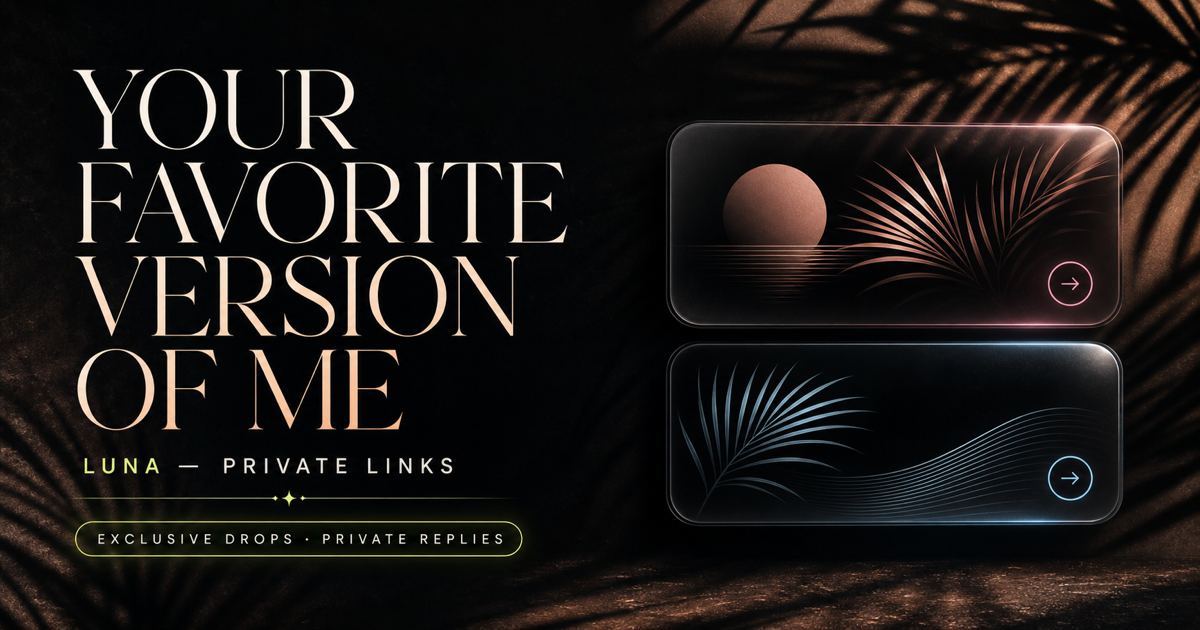
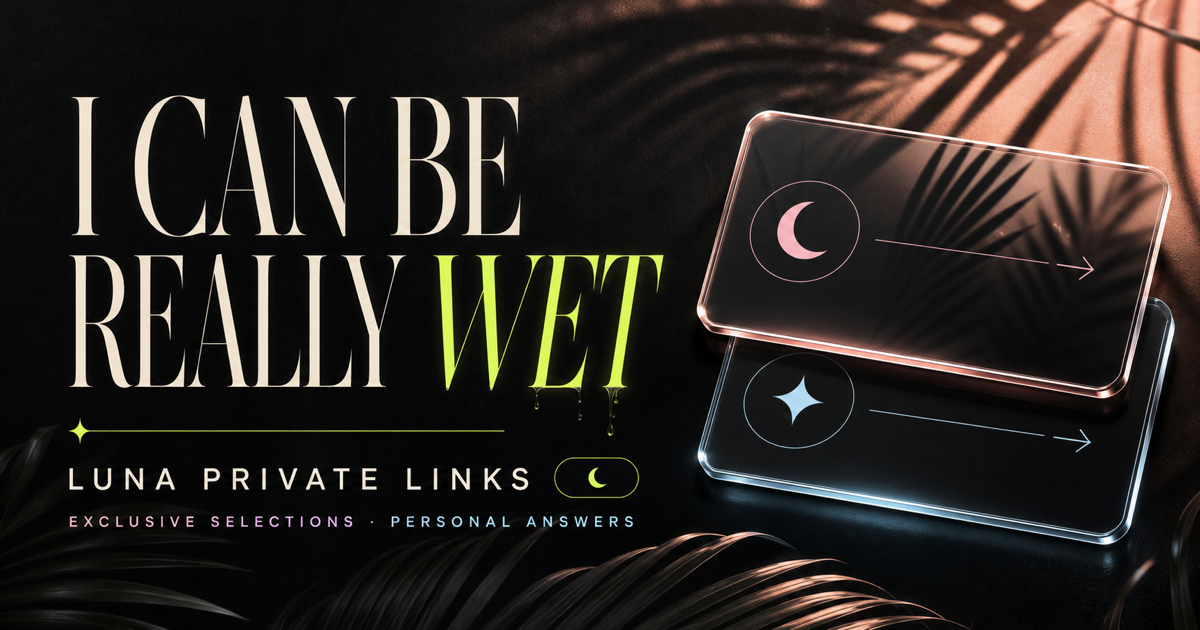
Publish Юля @user · Ютуб

diff --git a/25/index.html b/25/index.html
@@ -7,48 +7,202 @@
   <meta name="description" content="Exclusive selections, behind-the-scenes moments and personal answers — choose your favorite place.">
   <meta property="og:title" content="YULIA Private Links">
   <meta property="og:description" content="Exclusive selections, behind-the-scenes moments and personal answers — choose your favorite place.">
+  <meta property="og:type" content="website">
   <meta property="og:image" content="media/og.png">
+  <meta name="twitter:card" content="summary_large_image">
+  <meta name="twitter:title" content="YULIA Private Links">
+  <meta name="twitter:description" content="Exclusive selections, behind-the-scenes moments and personal answers — choose your favorite place.">
+  <meta name="twitter:image" content="media/og.png">
+  <meta name="theme-color" content="#11150f">
   <link rel="icon" href="media/favicon.jpg">
   <style>
-    :root{--display:"Bodoni 72","Iowan Old Style","Times New Roman",serif;--sans:Inter,ui-sans-serif,-apple-system,BlinkMacSystemFont,"Segoe UI",sans-serif}
-    *{box-sizing:border-box}html{min-width:320px;background:#080b12}body{min-width:320px;margin:0;background:#080b12;color:#fff;font-family:var(--sans);text-rendering:optimizeLegibility;-webkit-font-smoothing:antialiased}button{font:inherit}button,a{-webkit-tap-highlight-color:transparent}a{color:inherit;text-decoration:none}
-    .first-version-page{position:relative;min-height:100svh;padding:24px;display:grid;place-items:center;isolation:isolate;overflow:hidden;background:#080b12;color:#fff}
-    .first-version-media,.first-version-media>img,.first-version-media>video,.first-version-tint,.first-version-grain{position:fixed;inset:0}
-    .first-version-media{z-index:-2;overflow:hidden;background:#0a0c12}.first-version-media>img,.first-version-media>video{width:100%;height:100%;display:block;object-fit:cover;object-position:center 48%;transform:scale(1.02);animation:media-in 1.2s both cubic-bezier(.22,1,.36,1)}
-    .first-version-tint{background:radial-gradient(circle at 50% 38%,#2fb0ff21,transparent 36%),linear-gradient(180deg,#03060c75,#03050ad1)}
-    .first-version-grain{opacity:.12;background-image:repeating-radial-gradient(circle at 17% 29%,#ffffff4d 0 .45px,transparent .8px 3px),repeating-radial-gradient(circle at 78% 67%,#00000052 0 .5px,transparent .9px 4px);background-size:5px 5px,7px 7px;mix-blend-mode:soft-light;pointer-events:none}
-    .first-version-card{position:relative;width:min(448px,100%);padding:24px;border:1px solid #fff3;border-radius:30px;overflow:hidden;background:linear-gradient(145deg,#ffffff1f,transparent 30%),linear-gradient(180deg,#0a0e18b3,#080b1394);box-shadow:0 38px 100px #00000094,inset 0 1px #ffffff1a;backdrop-filter:blur(20px) saturate(125%);animation:card-in .85s .09s both cubic-bezier(.22,1,.36,1)}
-    .first-version-card:before{content:"";position:absolute;width:260px;height:260px;top:-180px;right:-140px;border-radius:50%;background:#1da1ff2e;filter:blur(20px);pointer-events:none}
-    .first-version-header{position:relative;display:flex;align-items:center;justify-content:space-between;gap:16px}.first-version-label{min-height:29px;padding:0 11px;border:1px solid #ffffff30;border-radius:999px;display:inline-flex;align-items:center;background:#ffffff0f;color:#ffffffad;font-size:8px;font-weight:800;letter-spacing:.17em;text-transform:uppercase}
-    .first-version-header button{min-height:32px;padding:0 8px 0 12px;border:1px solid #ffffff2e;border-radius:999px;display:inline-flex;align-items:center;gap:9px;background:#ffffff0f;color:#fff;cursor:pointer;font-size:8px;font-weight:900;letter-spacing:.15em;transition:.22s}.first-version-header button span{width:21px;height:21px;border-radius:50%;display:grid;place-items:center;background:#ffffff1f;font-size:11px}.first-version-header button:hover{border-color:#ffffff6b;background:#ffffff1f;transform:translateY(-2px)}
-    .first-version-identity{margin-top:35px;display:flex;align-items:center;gap:12px;color:#ffffff94;font-size:8px;font-weight:900;letter-spacing:.2em}.first-version-avatar{width:44px;height:44px;border:1px solid #ffffff40;border-radius:15px;display:grid;place-items:center;background:linear-gradient(145deg,#1da1ff52,#ffffff0f);color:#fff;font-family:var(--display);font-size:23px;font-style:italic;font-weight:400;letter-spacing:0}
-    h1{margin:24px 0 0;font-family:var(--display);font-size:clamp(42px,8vw,58px);font-style:italic;font-weight:400;line-height:.94;letter-spacing:-.045em}.first-version-description{max-width:355px;margin:14px 0 23px;color:#ffffffad;font-size:12px;line-height:1.55}
-    .first-version-primary-links{display:grid;gap:10px}.first-version-link{position:relative;min-height:86px;padding:13px;border:1px solid #ffffff29;border-radius:19px;display:grid;grid-template-columns:auto minmax(0,1fr) auto;align-items:center;gap:12px;overflow:hidden;opacity:0;animation:link-in .62s var(--link-delay) both cubic-bezier(.22,1,.36,1);transition:.25s}.first-version-link.primary{border-color:#6ecbff73;background:linear-gradient(135deg,#25b5ff,#0566f5);box-shadow:0 19px 45px #0b74ff59}.first-version-link.secondary{background:#ffffff13}.first-version-link:after{content:"";position:absolute;inset:0;background:linear-gradient(110deg,transparent 20%,#fff3 48%,transparent 70%);transform:translateX(-120%)}.first-version-link:hover{border-color:#ffffff80;transform:translateY(-4px) scale(1.006)}.first-version-link:hover:after{animation:sheen .75s ease}
-    .first-version-monogram{width:44px;height:44px;border:1px solid #fff3;border-radius:14px;display:grid;place-items:center;background:#ffffff24;box-shadow:inset 0 1px #ffffff2e;font-size:11px;font-weight:900}.first-version-link-copy{min-width:0;display:grid;gap:3px}.first-version-link-copy small{color:#ffffff9e;font-size:7px;font-weight:900;letter-spacing:.16em;text-transform:uppercase}.first-version-link-copy strong,.first-version-link-copy>span{overflow:hidden;text-overflow:ellipsis;white-space:nowrap}.first-version-link-copy strong{font-size:14px}.first-version-link-copy>span{color:#ffffffa1;font-size:9px}.first-version-arrow{width:29px;height:29px;border:1px solid #ffffff2e;border-radius:50%;display:grid;place-items:center;background:#ffffff1a;font-size:13px;transition:.22s}.first-version-link:hover .first-version-arrow{background:#fff;color:#07101d;transform:rotate(45deg)}
-    .first-version-divider{margin:21px 0 12px;display:flex;justify-content:space-between;gap:16px;color:#ffffff6b;font-size:7px;font-weight:900;letter-spacing:.19em}.first-version-socials{display:flex;justify-content:center;gap:10px;min-height:44px}.first-version-socials a{width:44px;height:44px;border:1px solid #ffffff2b;border-radius:50%;display:grid;place-items:center;background:#ffffff12;box-shadow:inset 0 1px #ffffff14;opacity:0;font-size:8px;font-weight:900;letter-spacing:-.03em;animation:social-in .52s var(--social-delay) both cubic-bezier(.22,1,.36,1);transition:.22s}.first-version-socials a:hover{border-color:#62cfff;background:#fff;color:#07101d;transform:translateY(-4px)}
-    .first-version-footer{margin-top:21px;padding-top:15px;border-top:1px solid #ffffff1a;display:flex;justify-content:space-between;gap:16px;color:#ffffff5c;font-size:7px;font-weight:900;letter-spacing:.17em}.first-version-header button:focus-visible,.first-version-link:focus-visible,.first-version-socials a:focus-visible{outline:2px solid #70d4ff;outline-offset:4px}
-    @keyframes card-in{from{opacity:0;transform:translateY(30px) scale(.975)}}@keyframes media-in{from{opacity:0;transform:scale(1.08)}}@keyframes link-in{from{opacity:0;transform:translateY(14px)}to{opacity:1;transform:translateY(0)}}@keyframes social-in{from{opacity:0;transform:translateY(10px) scale(.9)}to{opacity:1;transform:translateY(0) scale(1)}}@keyframes sheen{to{transform:translateX(120%)}}
-    @media(max-width:520px){.first-version-page{padding:12px;align-items:end}.first-version-card{width:100%;padding:18px;border-radius:25px}.first-version-identity{margin-top:26px}h1{margin-top:19px;font-size:43px}.first-version-description{margin-bottom:19px}.first-version-link{min-height:79px;padding:11px;border-radius:17px}.first-version-socials{gap:8px}.first-version-socials a{width:41px;height:41px}}
-    @media(max-height:720px) and (min-width:521px){.first-version-page{padding-block:12px}.first-version-card{padding:19px}.first-version-identity{margin-top:21px}h1{margin-top:17px;font-size:43px}.first-version-description{margin:11px 0 17px}.first-version-link{min-height:76px}.first-version-divider{margin-top:16px}.first-version-footer{margin-top:15px}}
-    @media(prefers-reduced-motion:reduce){*{animation-duration:.01ms!important;animation-iteration-count:1!important;transition-duration:.01ms!important}.first-version-media>video{display:none}}
+    :root{--ink:#f8f5ef;--muted:#f8f5efa8;--line:#ffffff24;--surface:#0b0c0bad;--blue:#6fd5ff;--pink:#ff8cc7;--lime:#d7ff75;--display:"Bodoni 72","Iowan Old Style","Times New Roman",serif;--sans:Inter,ui-sans-serif,-apple-system,BlinkMacSystemFont,"Segoe UI",sans-serif}
+    *{box-sizing:border-box}
+    html{min-width:320px;scroll-behavior:smooth;background:#11150f}
+    body{min-width:320px;margin:0;background:#11150f;color:var(--ink);font-family:var(--sans);text-rendering:optimizeLegibility;-webkit-font-smoothing:antialiased}
+    button,a{-webkit-tap-highlight-color:transparent}
+    button{font:inherit}
+    a{color:inherit;text-decoration:none}
+    ::selection{background:var(--lime);color:#11150f}
+    .link-hub{isolation:isolate;min-height:100svh;position:relative;overflow:hidden;background:#11150f}
+    .media-layer,.poster-layer,.background-media,.color-wash,.edge-shade,.noise{position:fixed;inset:0}
+    .media-layer{z-index:-2;overflow:hidden;background:#11150f}
+    .poster-layer{background:linear-gradient(#0b0f0a1f,#0b0f0a1f),url("media/poster.jpg") center 43%/cover no-repeat;transform:scale(1.02)}
+    .background-media{width:100%;height:100%;border:0;object-fit:cover;object-position:center 43%;opacity:0;transform:scale(1.018);transition:opacity 1.15s cubic-bezier(.4,0,.2,1)}
+    .background-media:nth-of-type(2){object-position:center 48%}
+    .background-media:nth-of-type(3){object-position:center 44%}
+    .background-media.is-active{opacity:1}
+    .color-wash{pointer-events:none;background:radial-gradient(circle at 14% 26%,#d7ff752e,transparent 31%),radial-gradient(circle at 80% 74%,#ff66ad29,transparent 34%),linear-gradient(102deg,#0709071a 0%,#0709076b 54%,#070907ad 100%);mix-blend-mode:screen}
+    .edge-shade{pointer-events:none;background:linear-gradient(#0405048c 0%,transparent 23% 68%,#040504cc 100%),linear-gradient(90deg,#04050499 0%,#04050414 46%,#04050475 100%)}
+    .noise{pointer-events:none;opacity:.12;background-image:repeating-radial-gradient(circle at 18% 27%,#ffffff3d 0 .45px,transparent .8px 3px),repeating-radial-gradient(circle at 72% 68%,#00000047 0 .55px,transparent .9px 4px);background-size:5px 5px,7px 7px;mix-blend-mode:soft-light}
+    .page-shell{width:min(100%,1480px);min-height:100svh;margin:0 auto;padding:22px clamp(22px,4vw,64px) 18px;display:grid;grid-template-rows:auto 1fr auto}
+    .topbar,.panel-heading,.social-heading,.panel-footer,.page-footer{display:flex;align-items:center;justify-content:space-between;gap:16px}
+    .topbar{gap:20px;animation:fade-down .7s 80ms both cubic-bezier(.22,1,.36,1)}
+    .brand{display:inline-flex;align-items:center;gap:12px}
+    .brand-mark{width:42px;height:42px;display:grid;place-items:center;border:1px solid #ffffff57;border-radius:50%;background:#0b0c0b4d;backdrop-filter:blur(12px);font-family:var(--display);font-size:21px;font-style:italic}
+    .brand-copy{display:grid;gap:3px;line-height:1}
+    .brand-copy strong{font-size:13px;letter-spacing:.19em}
+    .brand-copy small{color:var(--muted);font-size:9px;letter-spacing:.23em}
+    .share-button{min-height:42px;padding:0 7px 0 16px;display:inline-flex;align-items:center;gap:13px;border:1px solid #ffffff47;border-radius:999px;background:#0a0a0a38;color:var(--ink);cursor:pointer;backdrop-filter:blur(12px);font-size:10px;font-weight:800;letter-spacing:.16em;transition:.24s}
+    .share-button:hover{border-color:var(--lime);background:var(--lime);color:#11150f;transform:translateY(-2px)}
+    .share-arrow{width:30px;height:30px;display:grid;place-items:center;border-radius:50%;background:#ffffff24;font-size:16px;transition:transform .24s}
+    .share-button:hover .share-arrow{transform:rotate(45deg)}
+    .main-grid{min-height:0;padding:clamp(44px,9vh,112px) 0 clamp(30px,5vh,58px);display:grid;grid-template-columns:minmax(0,1fr) minmax(390px,470px);align-items:end;gap:clamp(48px,7vw,116px)}
+    .hero-copy{max-width:770px;padding-bottom:clamp(10px,3vh,36px);animation:hero-in .9s .12s both cubic-bezier(.22,1,.36,1)}
+    .status-pill{width:fit-content;min-height:32px;padding:0 13px;display:inline-flex;align-items:center;gap:9px;border:1px solid #fff3;border-radius:999px;background:#08090847;backdrop-filter:blur(12px);font-size:9px;font-weight:800;letter-spacing:.17em}
+    .status-dot{width:7px;height:7px;border-radius:50%;background:var(--lime);box-shadow:0 0 #d7ff7573;animation:pulse 2.2s infinite}
+    .eyebrow{margin:clamp(28px,4vh,48px) 0 16px;color:#f8f5efb8;font-size:10px;font-weight:800;letter-spacing:.35em}
+    h1{max-width:760px;margin:0;font-family:var(--display);font-size:clamp(54px,6.5vw,104px);font-weight:400;line-height:.86;letter-spacing:-.055em;text-wrap:balance;text-shadow:0 12px 44px #00000042}
+    h1:first-line{font-style:italic}
+    .hero-description{max-width:535px;margin:24px 0 0;color:#f8f5efc4;font-size:clamp(14px,1.15vw,17px);line-height:1.62}
+    .profile-signature{max-width:480px;margin-top:34px;display:grid;grid-template-columns:auto minmax(40px,1fr) auto;align-items:center;gap:14px;color:#f8f5efb8;font-size:9px;font-weight:800;letter-spacing:.22em}
+    .signature-line{height:1px;background:linear-gradient(90deg,#fff6,#ffffff0d)}
+    .link-panel{width:100%;padding:25px;border:1px solid #fff3;border-radius:30px;background:linear-gradient(145deg,#ffffff1a,transparent 32%),var(--surface);backdrop-filter:blur(20px) saturate(125%);box-shadow:0 34px 110px #0000005c,inset 0 1px #ffffff14;animation:panel-in .9s .18s both cubic-bezier(.22,1,.36,1)}
+    .panel-heading{align-items:flex-start;margin-bottom:20px}
+    .panel-heading p,.social-heading,.panel-footer,.page-footer{color:#f8f5ef85;font-size:8px;font-weight:800;letter-spacing:.2em}
+    .panel-heading p{margin:0 0 7px}
+    .panel-heading h2{margin:0;font-family:var(--display);font-size:32px;font-weight:400;font-style:italic;letter-spacing:-.035em}
+    .panel-number{color:#f8f5ef57;font-size:9px;font-weight:800;letter-spacing:.14em}
+    .primary-links{display:grid;gap:10px}
+    .primary-link{min-height:112px;padding:16px;position:relative;overflow:hidden;display:grid;grid-template-columns:auto 1fr auto;align-items:center;gap:14px;border:1px solid #ffffff24;border-radius:21px;background:#ffffff0e;transition:.28s}
+    .primary-link:hover{border-color:#ffffff70;background:#ffffff1b;transform:translateY(-4px) scale(1.008)}
+    .link-monogram{width:48px;height:48px;display:grid;place-items:center;border:1px solid #ffffff2e;border-radius:16px;background:linear-gradient(145deg,#6fd5ff52,#6fd5ff14);font-size:13px;font-weight:900;box-shadow:inset 0 1px #fff3}
+    .primary-link.pink .link-monogram{background:linear-gradient(145deg,#ff8cc757,#ff8cc714)}
+    .link-copy{min-width:0;display:grid;gap:5px}
+    .link-eyebrow{color:#f8f5ef80;font-size:7px;font-weight:900;letter-spacing:.16em}
+    .link-copy strong{font-family:var(--display);font-size:clamp(21px,2vw,26px);font-weight:400;letter-spacing:-.025em}
+    .link-copy small{overflow:hidden;color:#f8f5ef99;font-size:10px;line-height:1.35;text-overflow:ellipsis;white-space:nowrap}
+    .link-action{display:grid;justify-items:end;gap:20px;color:#f8f5ef80;font-size:8px;font-weight:900;letter-spacing:.15em}
+    .link-action span:last-child{width:30px;height:30px;display:grid;place-items:center;border:1px solid #ffffff2e;border-radius:50%;color:var(--ink);font-size:15px;transition:.24s}
+    .primary-link:hover .link-action span:last-child{background:var(--ink);color:#11150f;transform:rotate(45deg)}
+    .social-section{margin-top:22px}
+    .social-heading{margin-bottom:11px}
+    .social-grid{display:grid;grid-template-columns:repeat(2,minmax(0,1fr));gap:8px}
+    .social-link{min-height:62px;padding:10px 11px;display:grid;grid-template-columns:auto 1fr auto;align-items:center;gap:9px;border:1px solid #ffffff1c;border-radius:16px;background:#ffffff09;transition:.24s}
+    .social-link:hover{border-color:#ffffff4d;background:#ffffff16;transform:translateY(-3px)}
+    .social-link.is-disabled{opacity:.38;cursor:not-allowed}
+    .social-link.is-disabled:hover{border-color:#ffffff1c;background:#ffffff09;transform:none}
+    .social-monogram{width:31px;height:31px;display:grid;place-items:center;border-radius:10px;background:#ffffff17;font-size:9px;font-weight:900}
+    .social-copy{min-width:0;display:grid;gap:3px}
+    .social-copy strong{overflow:hidden;font-size:10px;text-overflow:ellipsis;white-space:nowrap}
+    .social-copy small{color:#f8f5ef73;font-size:8px}
+    .social-arrow{color:#f8f5ef6b;font-size:13px;transition:.22s}
+    .social-link:hover .social-arrow{color:var(--lime);transform:translate(2px,-2px)}
+    .panel-footer{margin-top:18px;padding-top:15px;border-top:1px solid #ffffff1a}
+    .page-footer{padding-top:16px;border-top:1px solid #ffffff21;animation:fade-up .8s .5s both}
+    .share-button:focus-visible,.primary-link:focus-visible,.social-link:focus-visible,.brand:focus-visible{outline:2px solid var(--lime);outline-offset:4px}
+    @keyframes fade-down{from{opacity:0;transform:translateY(-18px)}}
+    @keyframes fade-up{from{opacity:0;transform:translateY(18px)}}
+    @keyframes hero-in{from{opacity:0;transform:translateY(38px)}}
+    @keyframes panel-in{from{opacity:0;transform:translateY(34px) scale(.975)}}
+    @keyframes pulse{50%{opacity:.5}}
+    @media(max-width:980px){.link-hub{overflow:visible}.main-grid{padding-top:56px;grid-template-columns:1fr;align-items:start;gap:44px}.hero-copy{max-width:680px;padding:6vh 0 0}.link-panel{max-width:620px;justify-self:end}}
+    @media(max-width:620px){.page-shell{padding:16px 14px 13px}.brand-mark{width:38px;height:38px}.brand-copy strong{font-size:11px}.main-grid{padding:34px 0 28px;gap:34px}.hero-copy{padding-top:7vh}.eyebrow{margin:26px 0 12px}h1{font-size:clamp(48px,15vw,68px)}.hero-description{margin-top:19px;font-size:13px}.link-panel{padding:17px;border-radius:25px}.primary-link{min-height:105px;padding:13px;grid-template-columns:auto 1fr}.link-action{position:absolute;top:13px;right:13px}.social-grid{grid-template-columns:1fr}.page-footer{font-size:7px}}
+    @media(max-width:390px){.brand-copy small,.share-button>span:first-child{display:none}.share-button{padding-left:5px}h1{font-size:46px}.link-copy small{max-width:175px}}
+    @media(prefers-reduced-motion:reduce){html{scroll-behavior:auto}.background-media{display:none}*{animation-duration:.01ms!important;transition-duration:.01ms!important}}
   </style>
 </head>
 <body>
-  <main class="first-version-page">
-    <div class="first-version-media" aria-hidden="true"><img alt="" decoding="async" src="media/background.jpg"><div class="first-version-tint"></div><div class="first-version-grain"></div></div>
-    <section class="first-version-card" aria-labelledby="version-one-title">
-      <header class="first-version-header"><span class="first-version-label">Первая версия</span><button class="share-button" type="button"><span class="share-label">SHARE</span><span aria-hidden="true">↗</span></button></header>
-      <div class="first-version-identity"><span class="first-version-avatar" aria-hidden="true">Y</span><span>PRIVATE LINKS</span></div>
-      <h1 id="version-one-title">Where to next?</h1>
-      <p class="first-version-description">Exclusive selections, behind-the-scenes moments and personal answers — choose your favorite place.</p>
-      <div class="first-version-primary-links">
-        <a class="first-version-link primary" href="https://onlyfans.com/lilyuliaxo/trial/6jivknx6zmpogxhejstd7rtkvpbgvcdk" rel="noreferrer" target="_blank" style="--link-delay:180ms"><span class="first-version-monogram">OF</span><span class="first-version-link-copy"><small>ONLYFANS</small><strong>OnlyFans</strong><span>Private drops and direct messages</span></span><span class="first-version-arrow" aria-hidden="true">↗</span></a><a class="first-version-link secondary" href="https://fansly.com/littleyulia/t24" rel="noreferrer" target="_blank" style="--link-delay:270ms"><span class="first-version-monogram">F</span><span class="first-version-link-copy"><small>FANSLY</small><strong>Fansly</strong><span>Exclusive archive and fresh updates</span></span><span class="first-version-arrow" aria-hidden="true">↗</span></a>
-      </div>
-      <div class="first-version-divider"><span>KEEP UP WITH ME</span><span>04</span></div>
-      <div class="first-version-socials"><a aria-label="YouTube" href="https://www.youtube.com/@lilyuliaxostretch" rel="noreferrer" target="_blank" title="YouTube" style="--social-delay:390ms">YT</a><a aria-label="TikTok" href="https://www.tiktok.com/@lilyuliaxo4" rel="noreferrer" target="_blank" title="TikTok" style="--social-delay:445ms">TT</a><a aria-label="Instagram" href="https://www.instagram.com/jullia_lilyuliaxo/" rel="noreferrer" target="_blank" title="Instagram" style="--social-delay:500ms">IG</a><a aria-label="Twitter" href="https://x.com/borik220486" rel="noreferrer" target="_blank" title="Twitter" style="--social-delay:555ms">X</a></div>
-      <footer class="first-version-footer"><span>18+ ONLY</span><span>PRIVATE AND DIRECT</span></footer>
-    </section>
+  <main class="link-hub">
+    <div class="media-layer" aria-hidden="true">
+      <div class="poster-layer"></div>
+      <video class="background-media is-active" muted playsinline preload="metadata" autoplay poster="media/poster.jpg" src="media/background-1.mp4"></video><video class="background-media" muted playsinline preload="none"  poster="media/poster.jpg" src="media/background-2.mp4"></video><video class="background-media" muted playsinline preload="none"  poster="media/poster.jpg" src="media/background-3.mp4"></video>
+      <div class="color-wash"></div>
+      <div class="edge-shade"></div>
+      <div class="noise"></div>
+    </div>
+    <div class="page-shell">
+      <header class="topbar">
+        <a class="brand" href="#top" aria-label="Back to the top">
+          <span class="brand-mark" aria-hidden="true">Y</span>
+          <span class="brand-copy"><strong>YULIA</strong><small>PRIVATE LINKS</small></span>
+        </a>
+        <button class="share-button" type="button"><span class="share-label">SHARE</span><span class="share-arrow" aria-hidden="true">↗</span></button>
+      </header>
+      <section class="main-grid" id="top">
+        <div class="hero-copy">
+          <div class="status-pill"><span class="status-dot" aria-hidden="true"></span>NEW CONTENT THIS WEEK</div>
+          <p class="eyebrow">PRIVATE LINKS</p>
+          <h1>Where to next?</h1>
+          <p class="hero-description">Exclusive selections, behind-the-scenes moments and personal answers — choose your favorite place.</p>
+          <div class="profile-signature"><span>YULIA</span><span class="signature-line" aria-hidden="true"></span><span>@lilyuliaxo</span></div>
+        </div>
+        <div class="link-panel">
+          <div class="panel-heading"><div><p>CHOOSE YOUR ACCESS</p><h2>Come closer</h2></div><span class="panel-number">01 / 06</span></div>
+          <div class="primary-links">
+            <a class="primary-link blue" href="https://onlyfans.com/lilyuliaxo/trial/6jivknx6zmpogxhejstd7rtkvpbgvcdk" target="_blank" rel="noopener noreferrer" aria-label="Open OnlyFans">
+              <span class="link-monogram">OF</span>
+              <span class="link-copy"><span class="link-eyebrow">ONLYFANS · OnlyFans</span><strong>OnlyFans</strong><small>Private drops and direct messages</small></span>
+              <span class="link-action"><span>ENTER</span><span aria-hidden="true">↗</span></span>
+            </a><a class="primary-link pink" href="https://fansly.com/littleyulia/t24" target="_blank" rel="noopener noreferrer" aria-label="Open Fansly">
+              <span class="link-monogram">F</span>
+              <span class="link-copy"><span class="link-eyebrow">FANSLY · Fansly</span><strong>Fansly</strong><small>Exclusive archive and fresh updates</small></span>
+              <span class="link-action"><span>VIEW</span><span aria-hidden="true">↗</span></span>
+            </a>
+          </div>
+          <div class="social-section">
+            <div class="social-heading"><span>KEEP UP WITH ME</span><span>04 SOCIALS</span></div>
+            <div class="social-grid">
+              <a class="social-link" href="https://www.youtube.com/@lilyuliaxostretch" target="_blank" rel="noopener noreferrer" aria-label="Open YouTube">
+    <span class="social-monogram">YT</span>
+    <span class="social-copy"><strong>YouTube</strong><small>Watch</small></span>
+    <span class="social-arrow" aria-hidden="true">↗</span></a>
+              <a class="social-link" href="https://www.tiktok.com/@lilyuliaxo4" target="_blank" rel="noopener noreferrer" aria-label="Open TikTok">
+    <span class="social-monogram">TT</span>
+    <span class="social-copy"><strong>TikTok</strong><small>Daily</small></span>
+    <span class="social-arrow" aria-hidden="true">↗</span></a>
+              <a class="social-link" href="https://www.instagram.com/jullia_lilyuliaxo/" target="_blank" rel="noopener noreferrer" aria-label="Open Instagram">
+    <span class="social-monogram">IG</span>
+    <span class="social-copy"><strong>Instagram</strong><small>Latest</small></span>
+    <span class="social-arrow" aria-hidden="true">↗</span></a>
+              <a class="social-link" href="https://x.com/borik220486" target="_blank" rel="noopener noreferrer" aria-label="Open Twitter">
+    <span class="social-monogram">X</span>
+    <span class="social-copy"><strong>Twitter</strong><small>Thoughts</small></span>
+    <span class="social-arrow" aria-hidden="true">↗</span></a>
+            </div>
+          </div>
+          <div class="panel-footer"><span>18+ ONLY</span><span>SAFE · PRIVATE · DIRECT</span></div>
+        </div>
+      </section>
+      <footer class="page-footer"><span>© 2026 YULIA</span><span>ALL LINKS IN ONE PLACE</span></footer>
+    </div>
   </main>
-  <script>(()=>{const button=document.querySelector(".share-button");const label=document.querySelector(".share-label");button?.addEventListener("click",async()=>{try{if(navigator.share){await navigator.share({title:document.title,url:location.href})}else{await navigator.clipboard.writeText(location.href);label.textContent="COPIED";setTimeout(()=>{label.textContent="SHARE"},1500)}}catch{}})})()</script>
+  <script>
+    (() => {
+      const videos = [...document.querySelectorAll(".background-media")];
+      let active = 0;
+      const play = (index) => {
+        if (!videos.length) return;
+        videos.forEach((video, current) => {
+          video.classList.toggle("is-active", current === index);
+          if (current !== index) {
+            video.pause();
+            video.currentTime = 0;
+          }
+        });
+        videos[index].play().catch(() => {});
+      };
+      videos.forEach((video, index) => {
+        video.addEventListener("ended", () => {
+          active = (index + 1) % videos.length;
+          play(active);
+        });
+      });
+      play(active);
+      const share = document.querySelector(".share-button");
+      const label = document.querySelector(".share-label");
+      share?.addEventListener("click", async () => {
+        try {
+          if (navigator.share) {
+            await navigator.share({ title: document.title, url: location.href });
+          } else {
+            await navigator.clipboard.writeText(location.href);
+            label.textContent = "COPIED";
+            setTimeout(() => { label.textContent = "SHARE"; }, 1600);
+          }
+        } catch {}
+      });
+    })();
+  </script>
 </body>
 </html>